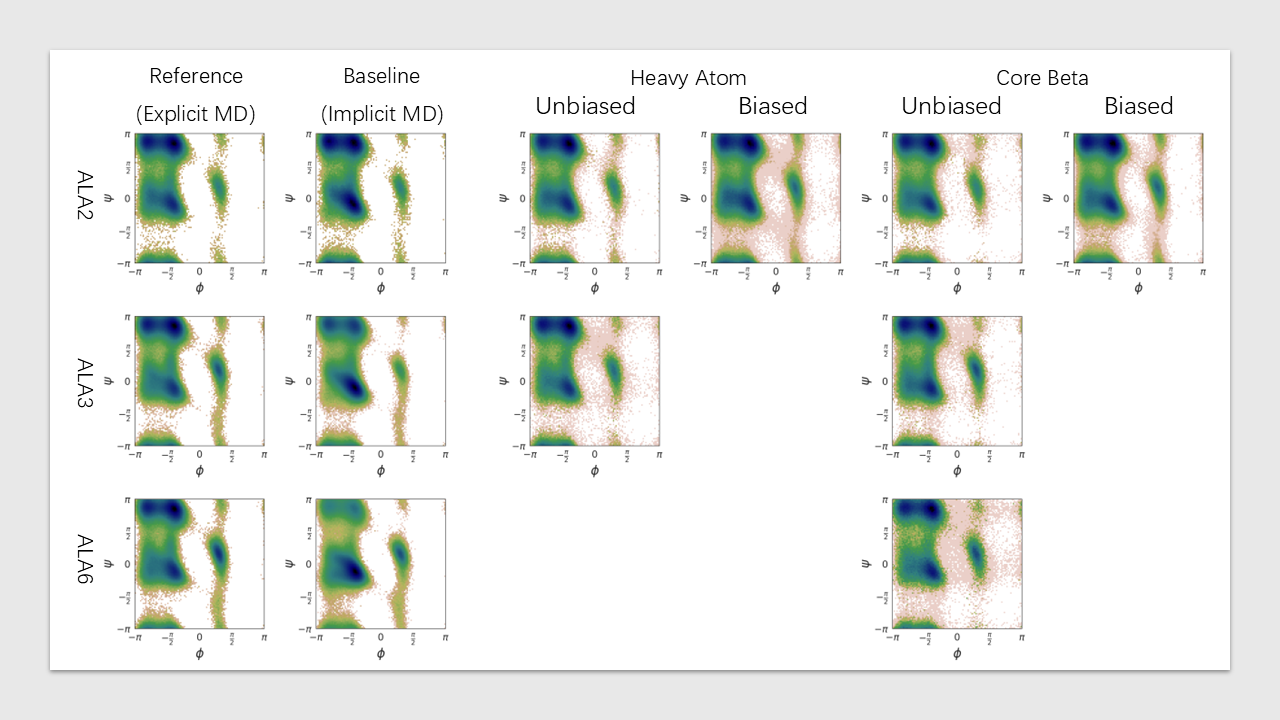
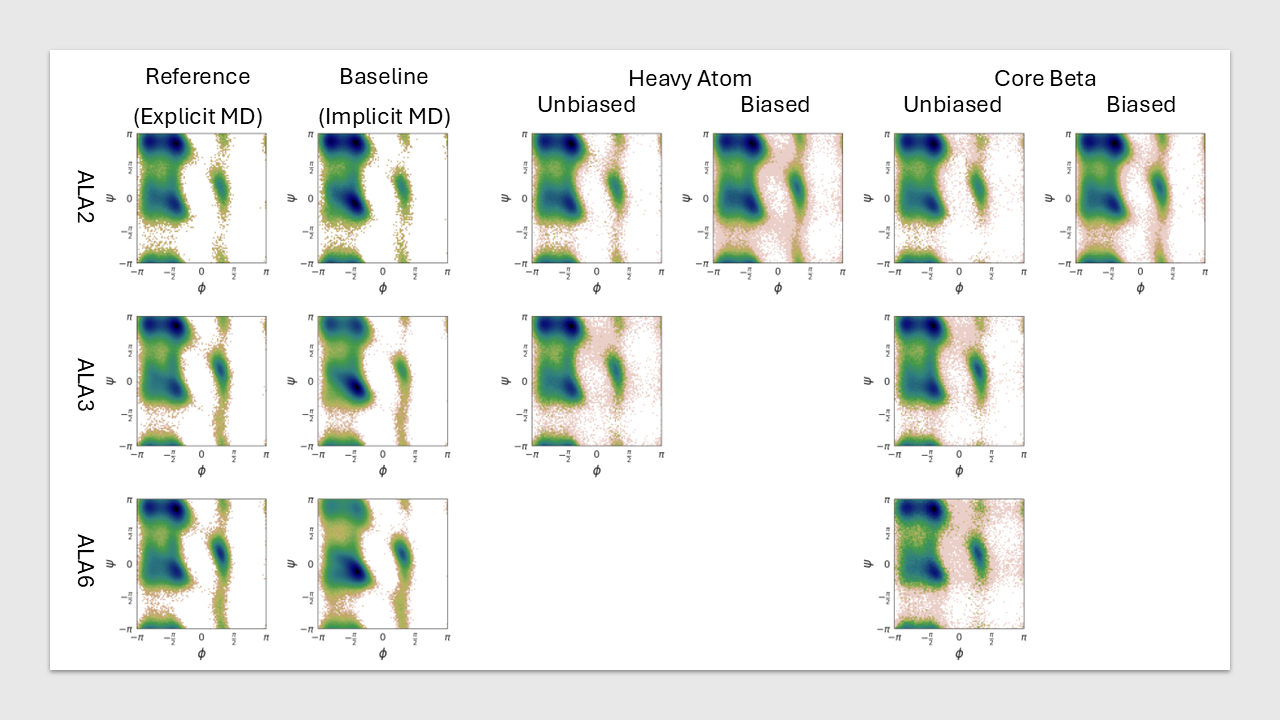
fix webpage typo

diff --git a/docs/index.html b/docs/index.html
@@ -134,7 +134,7 @@
   <!-- Showcase 1 -->
   <section class="section trajectory-section">
     <div class="container is-max-widescreen">
-      <h2 class="title is-3 has-text-centered">CG-BGs capture solven-mediated interactions in highly reduced representations</h2>
+      <h2 class="title is-3 has-text-centered">CG-BGs capture solvent-mediated interactions in highly reduced representations</h2>
       <div class="content">
         <p>
           Operating directly in a coarse-grained space, CG-BGs implicitly capture solvent-mediated
@@ -142,7 +142,7 @@
           implicit-solvent models while avoiding the computational cost of explicit-solvent
           simulations. The animation below illustrates this for the Core Beta
           representation: CG-BG samples (left) accumulate into the equilibrium distribution as the
-          atomistic reference trajectory (right) propogates, both converging to the same free-energy
+          atomistic reference trajectory (right) propagates, both converging to the same free-energy
           landscape.
         </p>
       </div>
@@ -268,18 +268,14 @@
             </tr>
           </thead>
           <tbody>
-            <tr class="results-grouphead"><td colspan="4">Continuous Normalizing Flow</td></tr>
             <tr><td>Training</td><td>0.45 h</td><td>0.80 h</td><td>2.55 h</td></tr>
             <tr><td>Inference</td><td>0.95 min</td><td>3.78 min</td><td>14.91 min</td></tr>
-            <tr class="results-grouphead"><td colspan="4">PMF network</td></tr>
-            <tr><td>Training</td><td>1.88 h</td><td>4.11 h</td><td>&mdash;</td></tr>
-            <tr><td>Inference</td><td>0.66 s</td><td>0.72 s</td><td>&mdash;</td></tr>
           </tbody>
         </table>
         <p class="results-footnote">
           Training and inference time on alanine dipeptide; inference is measured over 10<sup>4</sup>
           samples.<br>
-          <sup>&dagger;</sup> All Atom generates the full solute configuration without explicit solvent; the PMF network operates only on coarse-grained mappings.
+          <sup>&dagger;</sup> All Atom generates the full solute configuration without explicit solvent.
         </p>
       </div>
     </div>
@@ -339,7 +335,7 @@
             <p>
               This page was built using the
               <a href="https://github.com/eliahuhorwitz/Academic-project-page-template" target="_blank">Academic Project Page Template</a>,
-              adopted from the <a href="https://nerfies.github.io" target="_blank">Nerfies</a> project page.
+              adapted from the <a href="https://nerfies.github.io" target="_blank">Nerfies</a> project page.
               Licensed under
               <a rel="license" href="http://creativecommons.org/licenses/by-sa/4.0/" target="_blank">CC BY-SA 4.0</a>.
             </p>
